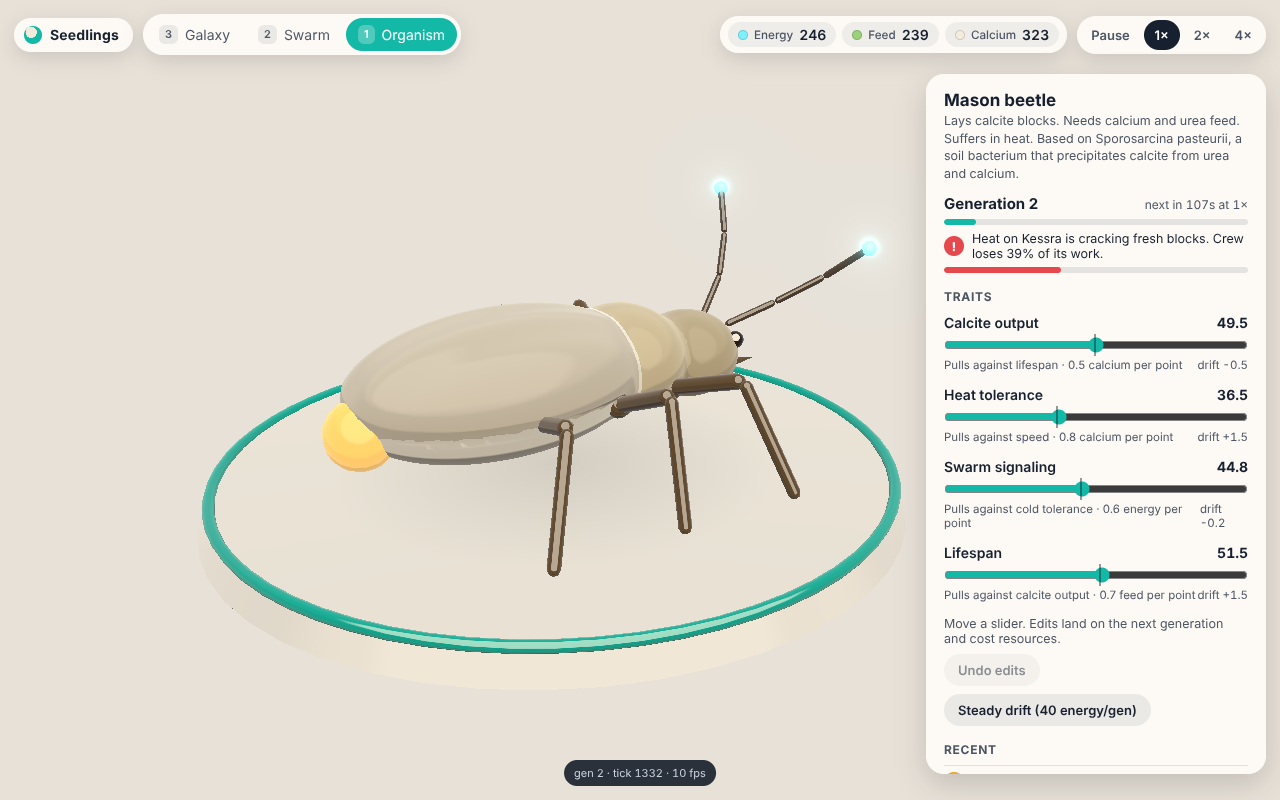
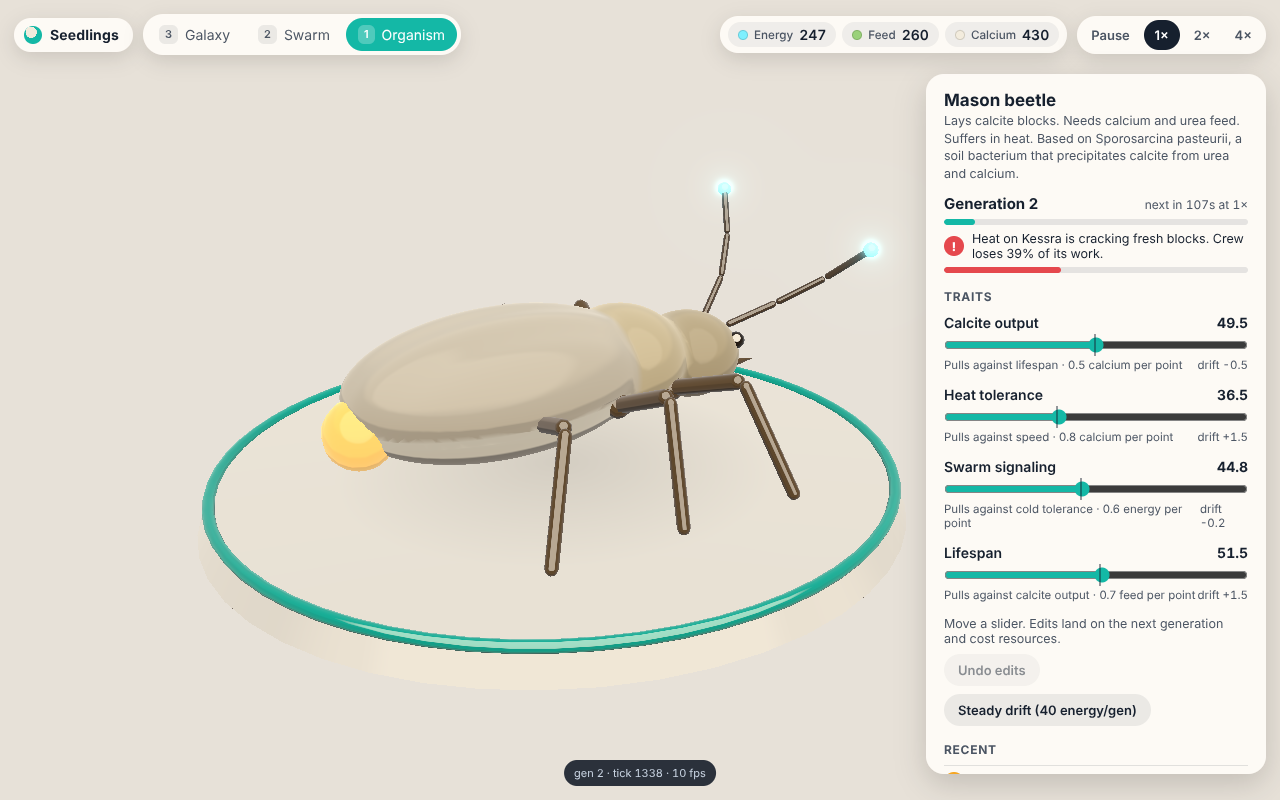
Record review fixes and decisions, refresh screenshots
Claude-Session: https://claude.ai/code/session_011GmEn3uzwawsgGKmW4pieV

diff --git a/docs/questions.md b/docs/questions.md
@@ -8,13 +8,13 @@ When the brief is unclear, the simplest reasonable option is taken and recorded 
 
 **Does raising heat tolerance lower calcite output?** The Kessra walkthrough says it does, but the tension pairs say heat tolerance pulls against speed. Chosen: the named pairs stand. Heat tolerance edits cost calcium, which is also the input for calcite, so the squeeze on calcite still happens through the resource rather than through the trait.
 
-**When does an edit cost resources?** Chosen: the cost is reserved while you drag and paid when the next generation hatches. Moving a slider back to its live value costs nothing. If the resources are gone when the generation turns, the edit does not land and the log says why. This keeps exploring free and the gate honest.
+**When does an edit cost resources?** Chosen: the cost is reserved while you drag and paid when the next generation hatches. The crew cannot spend reserved resources, so an accepted edit always lands. "Undo edits" returns to the live genes for free. Dragging a slider back by hand can leave a cost of under one unit after drift, because drift leaves tenths that a whole number slider cannot hit exactly. If an edit is refused, the slider says which resource is short.
 
 **What does the organism view show, the live crew or the plan?** Chosen: the dish shows the plan for the next generation, so every slider move changes the creature right away. A dark tick on each slider marks the live value.
 
 **How many traits in the first slice?** Six are in the genome (output, heat tolerance, cold tolerance, swarm signaling, lifespan, speed). Four sliders are shown, as the milestone says. The other two still move through tension pairs and drift, and still shape the creature.
 
-**Feed at Kessra.** The brief says feed is short so the player routes a seed ship. Seed ships are not simulated yet. Chosen for now: Kessra has a small feed trickle and the crew eats slowly, so feed lasts about half an hour at 1x. Logistics will tighten this on purpose.
+**Feed and calcium at Kessra.** The brief says feed is short so the player routes a seed ship. Seed ships are not simulated yet. Without them, a pre-merge review found calcium ran out in about 10 minutes and feed in about 29, after which every gene edit was refused for good. Chosen for now: Kessra has a calcium trickle (calcium from seawater, 0.08 per tick) and a feed trickle that exactly matches what 100 beetles eat (0.03 per tick). Default genes never run dry. A crew pushed to maximum output still burns calcium faster than it arrives, which is the trade-off the output slider should carry. When seed ships arrive, feed income drops back so that shipments matter.
 
 **Folder layout.** The brief lists `sim gen render ui audio debug`. An `app/` folder was added for the main thread glue (worker client, stage with camera dives) because it is neither pure simulation nor a scene.
 
@@ -25,3 +25,7 @@ When the brief is unclear, the simplest reasonable option is taken and recorded 
 **Deployment.** GitHub Pages was already on, in "deploy from a branch" mode, serving the old landing page from the default branch. The brief asks for GitHub Actions to deploy, and GitHub only accepts deploys from a workflow when the Pages source is set to "GitHub Actions". A workflow cannot change that setting itself. It is a one time change by the repository owner, recorded in the changelog. Until it is made, the deploy job fails and GitHub keeps publishing the raw branch, where the page shows only a loading message.
 
 **GitHub Actions versions.** Workflow steps use major version tags such as `actions/checkout@v4`, the usual practice for GitHub's own actions. Rule 10 is applied to npm packages, which are pinned exactly.
+
+**Tension pairs and slider limits.** The partner trait moves by exactly half of each edit, kept to two decimals, so ten small steps land where one big jump does. When the partner would pass 0 or 100, the edit stops at that limit, so moving a slider back always undoes it exactly.
+
+**Mesh detail while dragging.** A full detail beetle takes about 50 ms to build. While a slider moves, the beetle is rebuilt at lower detail (about 17 ms) a few times a second, then once at full detail a quarter second after the slider stops.

diff --git a/docs/changelog.md b/docs/changelog.md
@@ -26,10 +26,11 @@ The game goes live at that link after one setting changes on GitHub. Pages is on
 - Swarm site: `docs/screenshots/swarm.png`
 - Galaxy map: `docs/screenshots/galaxy.png`
 - Generation 2 with drift: `docs/screenshots/sequence-1.png` to `sequence-3.png`
+- A refused edit explaining itself: `docs/screenshots/organism-refused.png`
 
 **Checks**
 
-- 22 unit tests pass. 5 browser scenarios pass with zero console errors.
+- 31 unit tests pass. 8 browser scenarios pass with zero console errors.
 - Build is 165 KB compressed, well under the 5 MB budget.
 - Draw calls per frame, including the bloom passes: organism view 49, swarm 22, galaxy 26. The budget is 150.
 - View dives finish in 0.85 seconds.
@@ -45,7 +46,19 @@ The game goes live at that link after one setting changes on GitHub. Pages is on
 **Also in this session**
 
 - A loading screen shows while the game starts.
-- The browser tests now run against the same web address GitHub Pages uses. Before this fix they would have failed on GitHub.
+- The browser tests now run against the same web address GitHub Pages uses, and reach their test server on GitHub's machines. Both had broken the first CI run.
+
+**Fixed before going live, after an independent code review**
+
+- Dragging a slider slowly, or with the arrow keys, skipped the trade-off. Speed now drops with heat tolerance however the slider moves.
+- Calcium ran out in about 10 minutes and feed in about 29, after which no gene edit was possible. Kessra now has a small supply of both until seed ships exist.
+- An edit the game had accepted could be dropped when the generation turned. Reserved resources are now held back from the crew.
+- Dragging a slider stuttered, because the beetle was rebuilt in full on every step. It now updates at lower detail while dragging and sharpens when you let go.
+- A white jagged seam showed where the shell meets the thorax. Gone.
+- A refused edit snapped the slider back with no reason given. It now says which resource is short.
+- Keys 1, 2, 3 stopped working after touching a slider. Fixed.
+- Changing view in the middle of a camera dive cut hard to the wrong scene. The dive now carries on to the new view.
+- The haze in the swarm view did not reach the ground or sea, so the horizon showed a hard edge. Fixed.
 
 **Not done yet**
 

diff --git a/docs/roadmap.md b/docs/roadmap.md
@@ -17,10 +17,10 @@ Done
 - [x] Playwright scenarios with screenshots of all three views
 
 Next, in order
-1. **Swarm simulation.** 100 beetles with local rules: eat, gather, follow the scent gradient to the site, place a block next to existing structure. Voxel blueprint for the wall. Each block stores the builder's traits. Heat stress cracks weak blocks over time, visible as cracks. Instanced simplified beetle mesh in the swarm view. Feed station, tide, and heat stress at the site. This is the heart of the milestone.
+1. **Swarm simulation.** 100 beetles with local rules: eat, gather, follow the scent gradient to the site, place a block next to existing structure. Voxel blueprint for the wall. Each block stores the builder's traits. Heat stress cracks weak blocks over time, visible as cracks. Instanced simplified beetle mesh in the swarm view. Feed station, tide, and heat stress at the site. This is the heart of the milestone. When it changes the shape of the saved game, bump `version` in `SimState` and the save key in `src/app/client.ts`, or add a migration, so existing saves do not break.
 2. **Player markers.** Build here, avoid, feed station. Placed by clicking in the swarm view.
 3. **Lifespan and crews.** Workers die by lifespan and hatch by generation. Hungry crews stall. Worker count shown.
-4. **One seed ship.** Hollow Reach to Kessra with real travel time, carrying feed. Resource bars reflect arrivals. Living cargo drifts in transit.
+4. **One seed ship.** Hollow Reach to Kessra with real travel time, carrying feed. Resource bars reflect arrivals. Living cargo drifts in transit. Lower Kessra's feed income in `data/planets.json` back below what the crew eats, so shipments matter (see `docs/questions.md`).
 5. **Contract completion.** The wall counts as done when the blueprint is full and holding. Reward lands. A warm moment, no lose screen.
 6. **Tilt shift and polish.** Bokeh pass in the swarm view, soft studio shadows in the dish, camera dive tuning, tiny clicks and chitters with the Web Audio API.
 7. **Performance pass.** Measure 100 and 200 workers on a laptop GPU. Stay under 150 draw calls.
